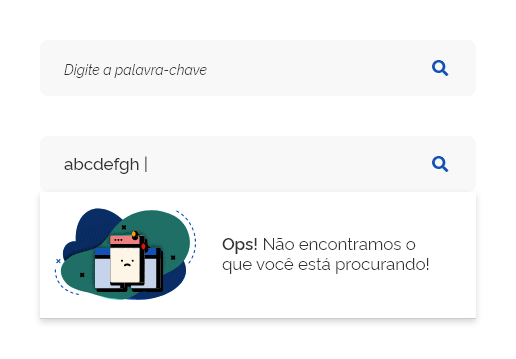
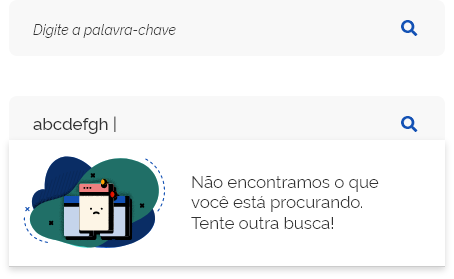
fix(emptystate): ajusta as imagens das diretrizes
Merge aceito por: tiago alexandre <tiago-alexandre.silva@serpro.gov.br>

Approved-by: Adriano <adriano.albuquerque@serpro.gov.br>

Merge Request govbr-ds/ds/dev/govbr-ds-dev-core!140

diff --git a/docs/components/select/select-dsg.md b/docs/components/select/select-dsg.md
@@ -291,7 +291,7 @@ Quando o texto dos itens for maior que a largura do componente, poderá ocorrer 
 
 ### 7. *Feedback* após pesquisa
 
-Quando o usuário optar por utilizar a função de pesquisa e não for localizado o item procurado, o componente *input* deverá exibir, logo abaixo, uma mensagem de *feedback* do tipo "Empty State", onde será apresentando uma sugestão ou resposta visual para a informação pesquisada. Ver exemplo abaixo:
+Quando o usuário optar por utilizar a função de pesquisa e não for localizado o item procurado, o componente *input* deverá exibir, logo abaixo, uma mensagem de *feedback* do tipo "Empty State", onde será apresentada uma sugestão ou resposta visual para a informação pesquisada. Ver exemplo abaixo:
 ![Exemplo de mensagem de feedback do tipo empty state](imagens/select-feedback-search.png)
 *Exemplo de mensagem de feedback do tipo empty state.*
 
